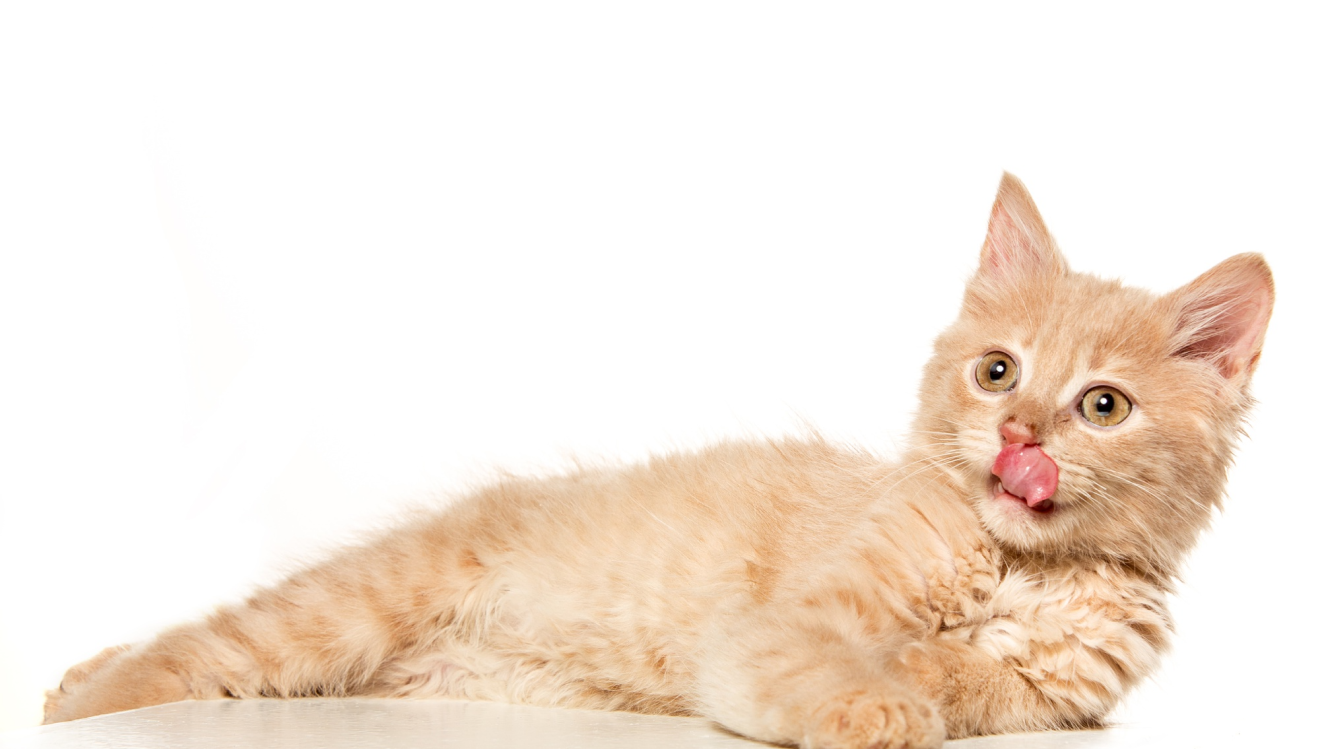
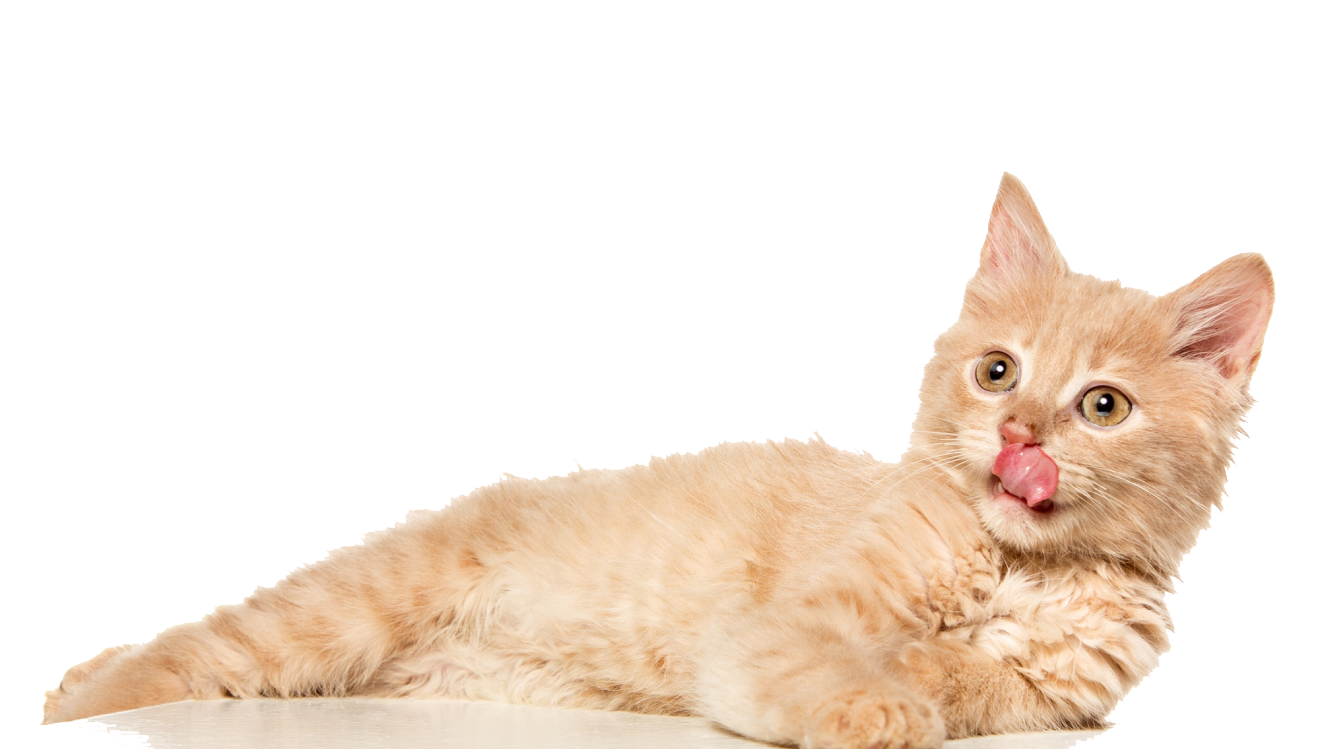
Header Section's Hero Section Done!

diff --git a/index.html b/index.html
@@ -46,7 +46,7 @@
   <header class="">
     <!-- Navigation Section -->
     <nav class="bg-ps-primary">
-      <div class="navbar md:container mx-auto">
+      <div class="navbar container mx-auto">
         <div class="navbar-start">
           <img src="./c1-assets/logo-header.png" alt="">
           <a class="lg:flex btn btn-ghost text-[26px] font-normal">Browse<span class="text-ps-accent">4</span>Pets</a>
@@ -109,6 +109,21 @@
         </div>
       </div>
     </nav>
+    <!-- Hero Section -->
+    <div class="hero min-h-[70vh] container mx-auto justify-between">
+      <div class="hero-content flex-col lg:flex-row">
+        <div>
+          <h1 class="text-3xl lg:text-5xl font-normal font-adlam-display leading-[1.4]">Pamper Your Pet,<br>Because They Deserve<br>the Best</h1>
+          <p class="py-6 text-justify w-10/12 lg:text-xl opacity-70 leading-[1.7]">
+            Discover a world of treats, toys, and essentials handpicked for your furry friends. Shop now and make tails wag with joy!
+          </p>
+          <button class="btn py-1 px-8 text-xl font-normal bg-ps-accent border-none hover:border-ps-accent hover:bg-yellow-400">Find a pet</button>
+        </div>
+        <img
+        src="./c1-assets/cat-big.png"
+        class="w-full lg:w-[77%] -z-40 top-80 lg:top-28 lg:left-48 absolute"/>
+      </div>
+    </div>
   </header>
   <!-- Main Section -->
   <main></main>
